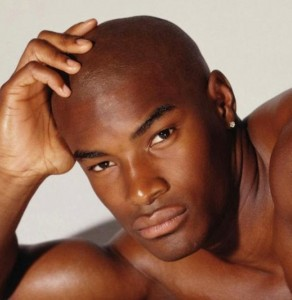
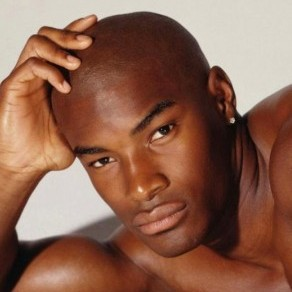
Fix card image aspect ratio by preventing flex stretching

diff --git a/src/css/style.css b/src/css/style.css
@@ -295,6 +295,7 @@ body::after {
   transition: all 0.4s cubic-bezier(0.175, 0.885, 0.32, 1.275);
   position: relative;
   max-height: 300px;
+  align-items: flex-start;
 }
 
 .project-card::before {
@@ -325,6 +326,7 @@ body::after {
 /* Card image */
 .card-image {
   width: 200px;
+  height: 200px;
   aspect-ratio: 1 / 1;
   object-fit: cover;
   flex-shrink: 0;
